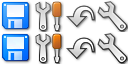
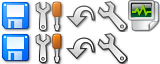
Added logging tab

diff --git a/chrome/skin/classic/sessionmanager/options.css b/chrome/skin/classic/sessionmanager/options.css
@@ -28,3 +28,6 @@ radio[pane=sessionstorePrefPane] {
 radio[pane=sessionstorePrefPane]:hover, radio[pane=sessionstorePrefPane][selected="true"] {
 	-moz-image-region:rect(32px,128px,64px,96px);
 }
+radio[pane=loggingPrefPane] {
+	-moz-image-region:rect(0px,160px,32px,128px);
+}
